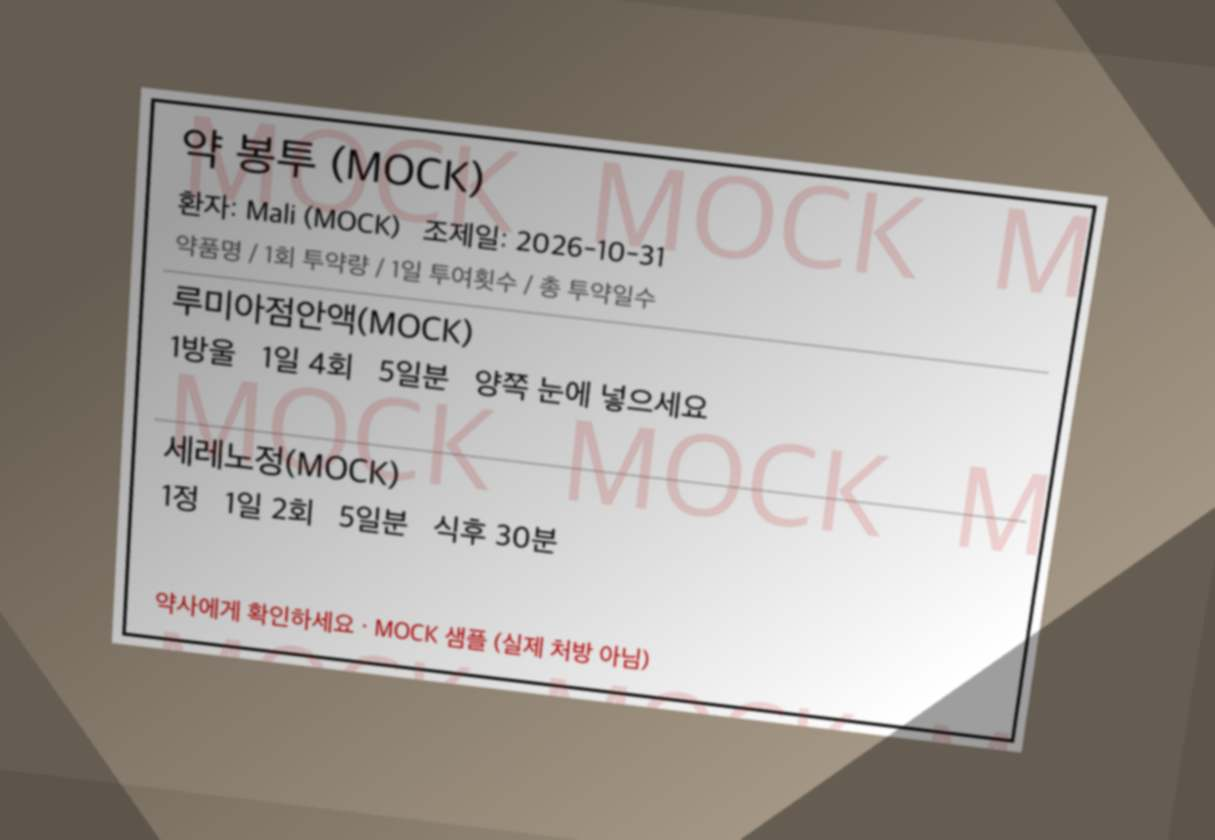
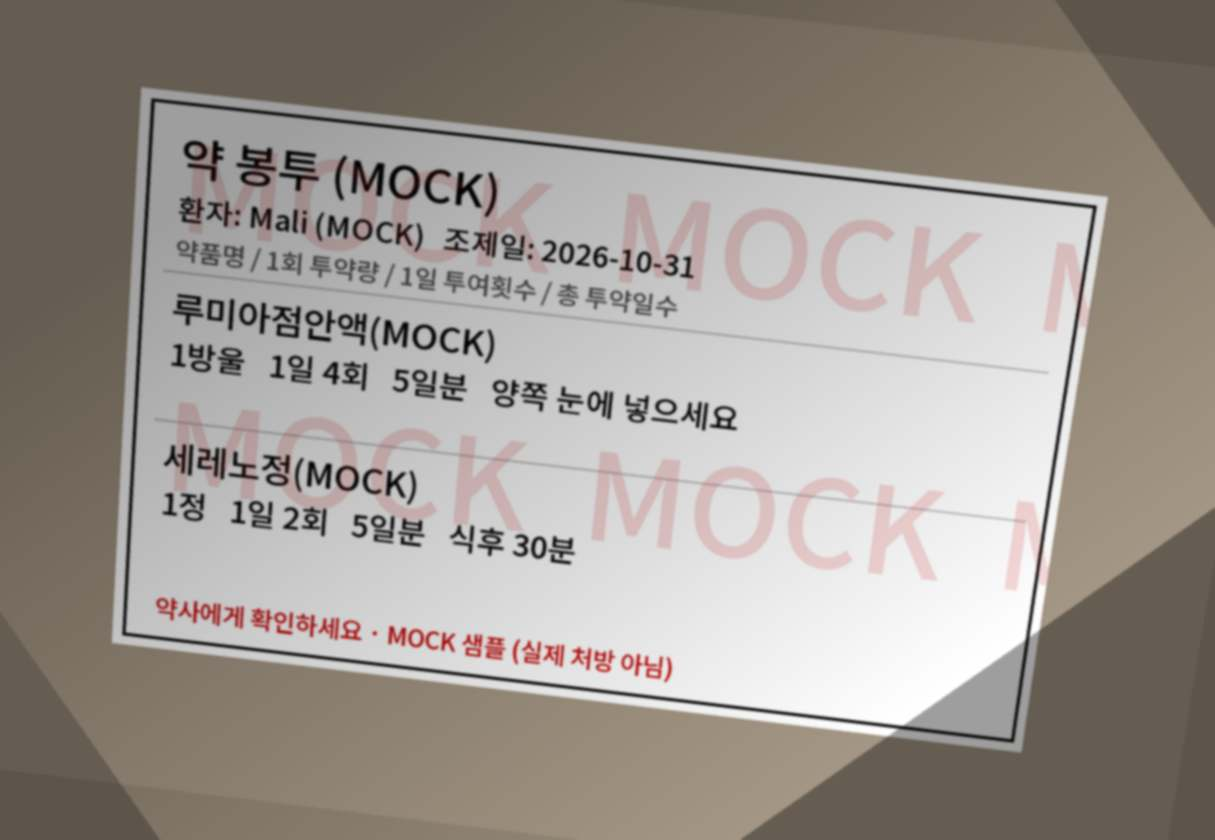
Re-render MOCK documents with OFL fonts (Noto Sans KR, Nanum Pen Script); fix pen-note arrow and position

Changed region(s): [[0.1218, 0.1238, 0.9136, 0.7119], [0.1218, 0.681, 0.5786, 0.8357], [0.6091, 0.8357, 0.67, 0.8667]]

diff --git a/data/mock/render_mock_docs.py b/data/mock/render_mock_docs.py
@@ -1,7 +1,8 @@
 """Render MOCK prescription labels and receipts to PNG for the reader demo and eval.
 
-Uses Pillow and a local Korean system font (not redistributed; only the rendered
-MOCK images are). Every image carries a MOCK watermark. Run: make mock-docs
+Uses Pillow with SIL Open Font License fonts from Google Fonts: Noto Sans KR (print) and Nanum Pen Script
+(handwritten note). Run `make mock-docs`; it downloads the fonts into data/mock/.fonts (git-ignored) if missing.
+Every image carries a MOCK watermark.
 """
 
 from __future__ import annotations
@@ -14,15 +15,29 @@ from pathlib import Path
 from PIL import Image, ImageDraw, ImageFont
 
 HERE = Path(__file__).resolve().parent
-FONT_CANDIDATES = [os.getenv("MOCK_FONT", ""), "/System/Library/Fonts/AppleSDGothicNeo.ttc",
-                   "/usr/share/fonts/truetype/nanum/NanumGothic.ttf"]
+FONTS = HERE / ".fonts"
+FONT_URLS = {  # SIL OFL 1.1 (google/fonts)
+    "NotoSansKR.ttf": "https://github.com/google/fonts/raw/main/ofl/notosanskr/NotoSansKR%5Bwght%5D.ttf",
+    "NanumPenScript-Regular.ttf": "https://github.com/google/fonts/raw/main/ofl/nanumpenscript/NanumPenScript-Regular.ttf",
+}
+
+
+def _font_file(name: str) -> Path:
+    path = FONTS / name
+    if not path.exists():
+        import urllib.request
+        FONTS.mkdir(exist_ok=True)
+        urllib.request.urlretrieve(FONT_URLS[name], path)
+    return path
 
 
 def font(size: int) -> ImageFont.FreeTypeFont:
-    for p in FONT_CANDIDATES:
-        if p and Path(p).exists():
-            return ImageFont.truetype(p, size)
-    sys.exit("No Korean font found; set MOCK_FONT to a .ttf/.ttc path")
+    f = ImageFont.truetype(str(_font_file("NotoSansKR.ttf")), size)
+    try:
+        f.set_variation_by_axes([500])  # variable font: medium weight
+    except Exception:
+        pass
+    return f
 
 
 def watermark(img: Image.Image) -> None:
@@ -55,8 +70,7 @@ def render_slip(slip: dict, out: Path) -> None:
 
 
 def pen_font(size: int) -> ImageFont.FreeTypeFont:
-    p = "/System/Library/Fonts/Supplemental/AppleMyungjo.ttf"
-    return ImageFont.truetype(p, size) if Path(p).exists() else font(size)
+    return ImageFont.truetype(str(_font_file("NanumPenScript-Regular.ttf")), size + 8)
 
 
 def render_form(form: dict, out: Path) -> None:
@@ -122,9 +136,16 @@ def render_form(form: dict, out: Path) -> None:
         d.text((cols[4] + 22, yy), it["substitution"], font=font(25), fill=ink)
         d.text((cols[5] + 10, yy), it["instructions_ko"], font=font(23), fill=ink)
         if it.get("handwritten"):
-            note = Image.new("RGBA", (260, 50), (0, 0, 0, 0))
-            ImageDraw.Draw(note).text((0, 0), it["handwritten"], font=pen_font(30), fill=blue + (255,))
-            img.alpha_composite(note.rotate(4, expand=True), (cols[5] + 20, yy + 26))
+            # pen note beside its own line; the arrow comes from the print font (the pen font has no "→")
+            note = Image.new("RGBA", (200, 56), (0, 0, 0, 0))
+            nd = ImageDraw.Draw(note)
+            text = it["handwritten"]
+            x0 = 0
+            if text.startswith("→"):
+                nd.text((0, 10), "→", font=font(26), fill=blue + (255,))
+                x0, text = 30, text[1:]
+            nd.text((x0, 2), text, font=pen_font(30), fill=blue + (255,))
+            img.alpha_composite(note.rotate(3, expand=True), (cols[5] + 108, yy - 14))
     by = body_top + n_rows * row_h + 40
     d.rectangle([L, by, R, by + 70], outline=ink, width=2)
     d.text((L + 20, by + 20), f"사용기간   교부일로부터 (  {form['valid_days']}  )일간      사용기간 내에 약국에 제출하여야 합니다.",

diff --git a/THIRD_PARTY.md b/THIRD_PARTY.md
@@ -46,11 +46,11 @@ Every outside dependency, model and asset, with its license. Versions are pinned
 
 ## Fonts and assets
 
-- MOCK prescription images in `data/mock/prescriptions/*.png` were rendered by
-  `data/mock/render_mock_docs.py` using the macOS system font Apple SD Gothic Neo and AppleMyungjo (handwriting-style note).
-  **Open item:** before submission, re-render with an OFL font (e.g. Noto Sans KR,
-  SIL OFL 1.1) by setting `MOCK_FONT=/path/to/NotoSansKR.ttf make mock-docs`, so the
-  committed images use a font that is clearly licensed for redistribution.
+- MOCK prescription images in `data/mock/prescriptions/` (labels and 처방전 forms, clean and simulated phone
+  photos) are rendered by `data/mock/render_mock_docs.py` with **Noto Sans KR** (print) and **Nanum Pen Script**
+  (handwritten note), both from google/fonts under the **SIL Open Font License 1.1**. The fonts are downloaded at
+  render time into `data/mock/.fonts/` (not committed); only the rendered MOCK images are. Re-rendered 2026-11-05
+  (earlier renders used macOS system fonts and were replaced).
 - Medero logo (`assets/brand/medero-logo-source.png`; derived icons in `web/public/`): generated by the
   developer with ChatGPT (OpenAI) on 2026-11-04 for this project. OpenAI's terms assign output rights to the
   user. Used only as a brand asset; no OpenAI model is part of Medero's runtime.
